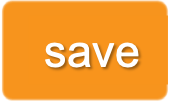
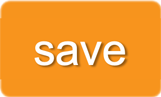
bug fixes with video recording

Changed region(s): [[0.0, 0.0, 1.0, 1.0], [0.1863, 0.3711, 0.8385, 0.7113]]

diff --git a/Contents/Consulting/index.html b/Contents/Consulting/index.html
@@ -123,14 +123,9 @@
                 <button id="btn-start-recording" style="height: 80px !important; width: auto ; font-size: -webkit-xxx-large; border-radius: 50px; background-color: #ED9B2D; padding: 15px ">Click here to video tape a question</button>
                 <!--<button id="btn-pause-recording" style="display: none; font-size: 15px;">Pause</button>-->
 
-
-
-
                 <div style="display: none;">
                     <input type="checkbox" id="chk-fixSeeking" style="margin:0;width:auto;" title="Fix video seeking issues?">
                     <label for="chk-fixSeeking" style="font-size: 15px;margin:0;width: auto;cursor: pointer;-webkit-user-select:none;user-select:none;" title="Fix video seeking issues?">Fix Seeking Issues?</label>
-
-
                 </div>
 
                 <hr style=" display: none !important; border-top: 0;border-bottom: 1px solid rgb(189, 189, 189);margin: 4px -12px;margin-top: 8px;" >
@@ -173,7 +168,7 @@
             <div id="keyboard" class="keyboard" style="display: none">
                 <div class="top">
                     <font class="address" size="6px"><a id="address" onmousedown="return false"></a></font>
-                    <img src="Images/keyboard/send.png" id="save-from-keyboard" > &nbsp;
+                    <img src="Images/keyboard/save.png" id="save-from-keyboard" > &nbsp;
                     <img src="Images/keyboard/cancel.png" onclick="HideKeyboard()">
                 </div>
                 <div class="wrap" >
@@ -466,126 +461,9 @@
                     }
                 };
 
-                if(mediaContainerFormat === 'h264') {
-                    mimeType = 'video/webm\;codecs=h264';
-                    fileExtension = 'mp4';
-
-                    // video/mp4;codecs=avc1    
-                    if(isMimeTypeSupported('video/mpeg')) {
-                        mimeType = 'video/mpeg';
-                    }
-                }
-
                 if(mediaContainerFormat === 'mkv' && isMimeTypeSupported('video/x-matroska;codecs=avc1')) {
                     mimeType = 'video/x-matroska;codecs=avc1';
                     fileExtension = 'mkv';
-                }
-
-                if(mediaContainerFormat === 'vp8' && isMimeTypeSupported('video/webm\;codecs=vp8')) {
-                    mimeType = 'video/webm\;codecs=vp8';
-                    fileExtension = 'webm';
-                    recorderType = null;
-                    type = 'video';
-                }
-
-                if(mediaContainerFormat === 'vp9' && isMimeTypeSupported('video/webm\;codecs=vp9')) {
-                    mimeType = 'video/webm\;codecs=vp9';
-                    fileExtension = 'webm';
-                    recorderType = null;
-                    type = 'video';
-                }
-
-                if(mediaContainerFormat === 'pcm') {
-                    mimeType = 'audio/wav';
-                    fileExtension = 'wav';
-                    recorderType = StereoAudioRecorder;
-                    type = 'audio';
-                }
-
-                if(mediaContainerFormat === 'opus' || mediaContainerFormat.value === 'ogg') {
-                    if(isMimeTypeSupported('audio/webm')) {
-                        mimeType = 'audio/webm';
-                        fileExtension = 'webm'; // webm
-                    }
-
-                    if(isMimeTypeSupported('audio/ogg')) {
-                        mimeType = 'audio/ogg; codecs=opus';
-                        fileExtension = 'ogg'; // ogg
-                    }
-
-                    recorderType = null;
-                    type = 'audio';
-                }
-
-                if(mediaContainerFormat === 'whammy') {
-                    mimeType = 'video/webm';
-                    fileExtension = 'webm';
-                    recorderType = WhammyRecorder;
-                    type = 'video';
-                }
-
-                if(mediaContainerFormat === 'WebAssembly') {
-                    mimeType = 'video/webm';
-                    fileExtension = 'webm';
-                    recorderType = WebAssemblyRecorder;
-                    type = 'video';
-                }
-
-                if(mediaContainerFormat === 'gif') {
-                    mimeType = 'image/gif';
-                    fileExtension = 'gif';
-                    recorderType = GifRecorder;
-                    type = 'gif';
-                }
-
-                if(mediaContainerFormat === 'default') {
-                    mimeType = 'video/webm';
-                    fileExtension = 'webm';
-                    recorderType = null;
-                    type = 'video';
-                }
-
-                if(recordingMedia === 'record-audio') {
-                    captureAudio(commonConfig);
-
-                    button.mediaCapturedCallback = function() {
-                        var options = {
-                            type: type,
-                            mimeType: mimeType,
-                            leftChannel: params.leftChannel || false,
-                            disableLogs: params.disableLogs || false
-                        };
-
-                        if(params.sampleRate) {
-                            options.sampleRate = parseInt(params.sampleRate);
-                        }
-
-                        if(params.bufferSize) {
-                            options.bufferSize = parseInt(params.bufferSize);
-                        }
-
-                        if(recorderType) {
-                            options.recorderType = recorderType;
-                        }
-
-                        if(videoBitsPerSecond) {
-                            options.videoBitsPerSecond = videoBitsPerSecond;
-                        }
-
-                        if(DetectRTC.browser.name === 'Edge') {
-                            options.numberOfAudioChannels = 1;
-                        }
-
-                        options.ignoreMutedMedia = false;
-                        button.recordRTC = RecordRTC(button.stream, options);
-
-                        button.recordingEndedCallback = function(url) {
-                            setVideoURL(url);
-                        };
-
-                        button.recordRTC.startRecording();
-                        //btnPauseRecording.style.display = '';
-                    };
                 }
 
                 if(recordingMedia === 'record-audio-plus-video') {
@@ -702,85 +580,6 @@
                     };
                 }
 
-                if(recordingMedia === 'record-screen') {
-                    captureScreen(commonConfig);
-
-                    button.mediaCapturedCallback = function() {
-                        var options = {
-                            type: type,
-                            mimeType: mimeType,
-                            disableLogs: params.disableLogs || false,
-                            getNativeBlob: false, // enable it for longer recordings
-                            video: recordingPlayer
-                        };
-
-                        if(recorderType) {
-                            options.recorderType = recorderType;
-
-                            if(recorderType == WhammyRecorder || recorderType == GifRecorder || recorderType == WebAssemblyRecorder) {
-                                options.canvas = options.video = {
-                                    width: defaultWidth || 320,
-                                    height: defaultHeight || 240
-                                };
-                            }
-                        }
-
-                        if(videoBitsPerSecond) {
-                            options.videoBitsPerSecond = videoBitsPerSecond;
-                        }
-
-                        options.ignoreMutedMedia = false;
-                        button.recordRTC = RecordRTC(button.stream, options);
-
-                        button.recordingEndedCallback = function(url) {
-                            setVideoURL(url);
-                        };
-
-                        button.recordRTC.startRecording();
-                        //btnPauseRecording.style.display = '';
-                    };
-                }
-
-                // note: audio+tab is supported in Chrome 50+
-                // todo: add audio+tab recording
-                if(recordingMedia === 'record-audio-plus-screen') {
-                    captureAudioPlusScreen(commonConfig);
-
-                    button.mediaCapturedCallback = function() {
-                        var options = {
-                            type: type,
-                            mimeType: mimeType,
-                            disableLogs: params.disableLogs || false,
-                            getNativeBlob: false, // enable it for longer recordings
-                            video: recordingPlayer
-                        };
-
-                        if(recorderType) {
-                            options.recorderType = recorderType;
-
-                            if(recorderType == WhammyRecorder || recorderType == GifRecorder || recorderType == WebAssemblyRecorder) {
-                                options.canvas = options.video = {
-                                    width: defaultWidth || 320,
-                                    height: defaultHeight || 240
-                                };
-                            }
-                        }
-
-                        if(videoBitsPerSecond) {
-                            options.videoBitsPerSecond = videoBitsPerSecond;
-                        }
-
-                        options.ignoreMutedMedia = false;
-                        button.recordRTC = RecordRTC(button.stream, options);
-
-                        button.recordingEndedCallback = function(url) {
-                            setVideoURL(url);
-                        };
-
-                        button.recordRTC.startRecording();
-                        //btnPauseRecording.style.display = '';
-                    };
-                }
             };
 
             function captureVideo(config) {
@@ -1625,9 +1424,6 @@
         </script>
 
 
-
-
-
         <script>
             var chkFixSeeking = document.querySelector('#chk-fixSeeking');
             chkFixSeeking.onchange = function() {
@@ -1667,57 +1463,8 @@
                 }
             }, false);
         </script>
-
-        <script>
-            /*
-            var btnPauseRecording = document.querySelector('#btn-pause-recording');
-            btnPauseRecording.onclick = function() {
-                if(!btnStartRecording.recordRTC) {
-                    btnPauseRecording.style.display = 'none';
-                    return;
-                }
-
-                btnPauseRecording.disabled = true;
-                if(btnPauseRecording.innerHTML === 'Pause') {
-                    btnStartRecording.disabled = true;
-                    chkFixSeeking.parentNode.style.display = 'none';
-                    btnStartRecording.style.fontSize = '15px';
-                    btnStartRecording.recordRTC.pauseRecording();
-                    recordingPlayer.parentNode.parentNode.querySelector('h2').innerHTML = 'Recording status: paused';
-                    recordingPlayer.pause();
-
-                    btnPauseRecording.style.fontSize = 'inherit';
-                    setTimeout(function() {
-                        btnPauseRecording.innerHTML = 'Resume Recording';
-                        btnPauseRecording.disabled = false;
-                    }, 2000);
-                }
-
-                if(btnPauseRecording.innerHTML === 'Resume Recording') {
-                    btnStartRecording.disabled = false;
-                    chkFixSeeking.parentNode.style.display = 'none';
-                    btnStartRecording.style.fontSize = 'inherit';
-                    btnStartRecording.recordRTC.resumeRecording();
-                    recordingPlayer.parentNode.parentNode.querySelector('h2').innerHTML = '<img src="https://www.webrtc-experiment.com/images/progress.gif">';
-                    recordingPlayer.play();
-
-                    btnPauseRecording.style.fontSize = '15px';
-                    btnPauseRecording.innerHTML = 'Pause';
-                    setTimeout(function() {
-                        btnPauseRecording.disabled = false;
-                    }, 2000);
-                }
-            };*/
-        </script>
-
-
     </article>
 
-
-    <!-- commits.js is useless for you! -->
-
-    <script src="https://www.webrtc-experiment.com/commits.js" async></script>
-    <script src="https://apis.google.com/js/client:plusone.js"></script>
 <script src="Script.js"></script>
 </body>
 
